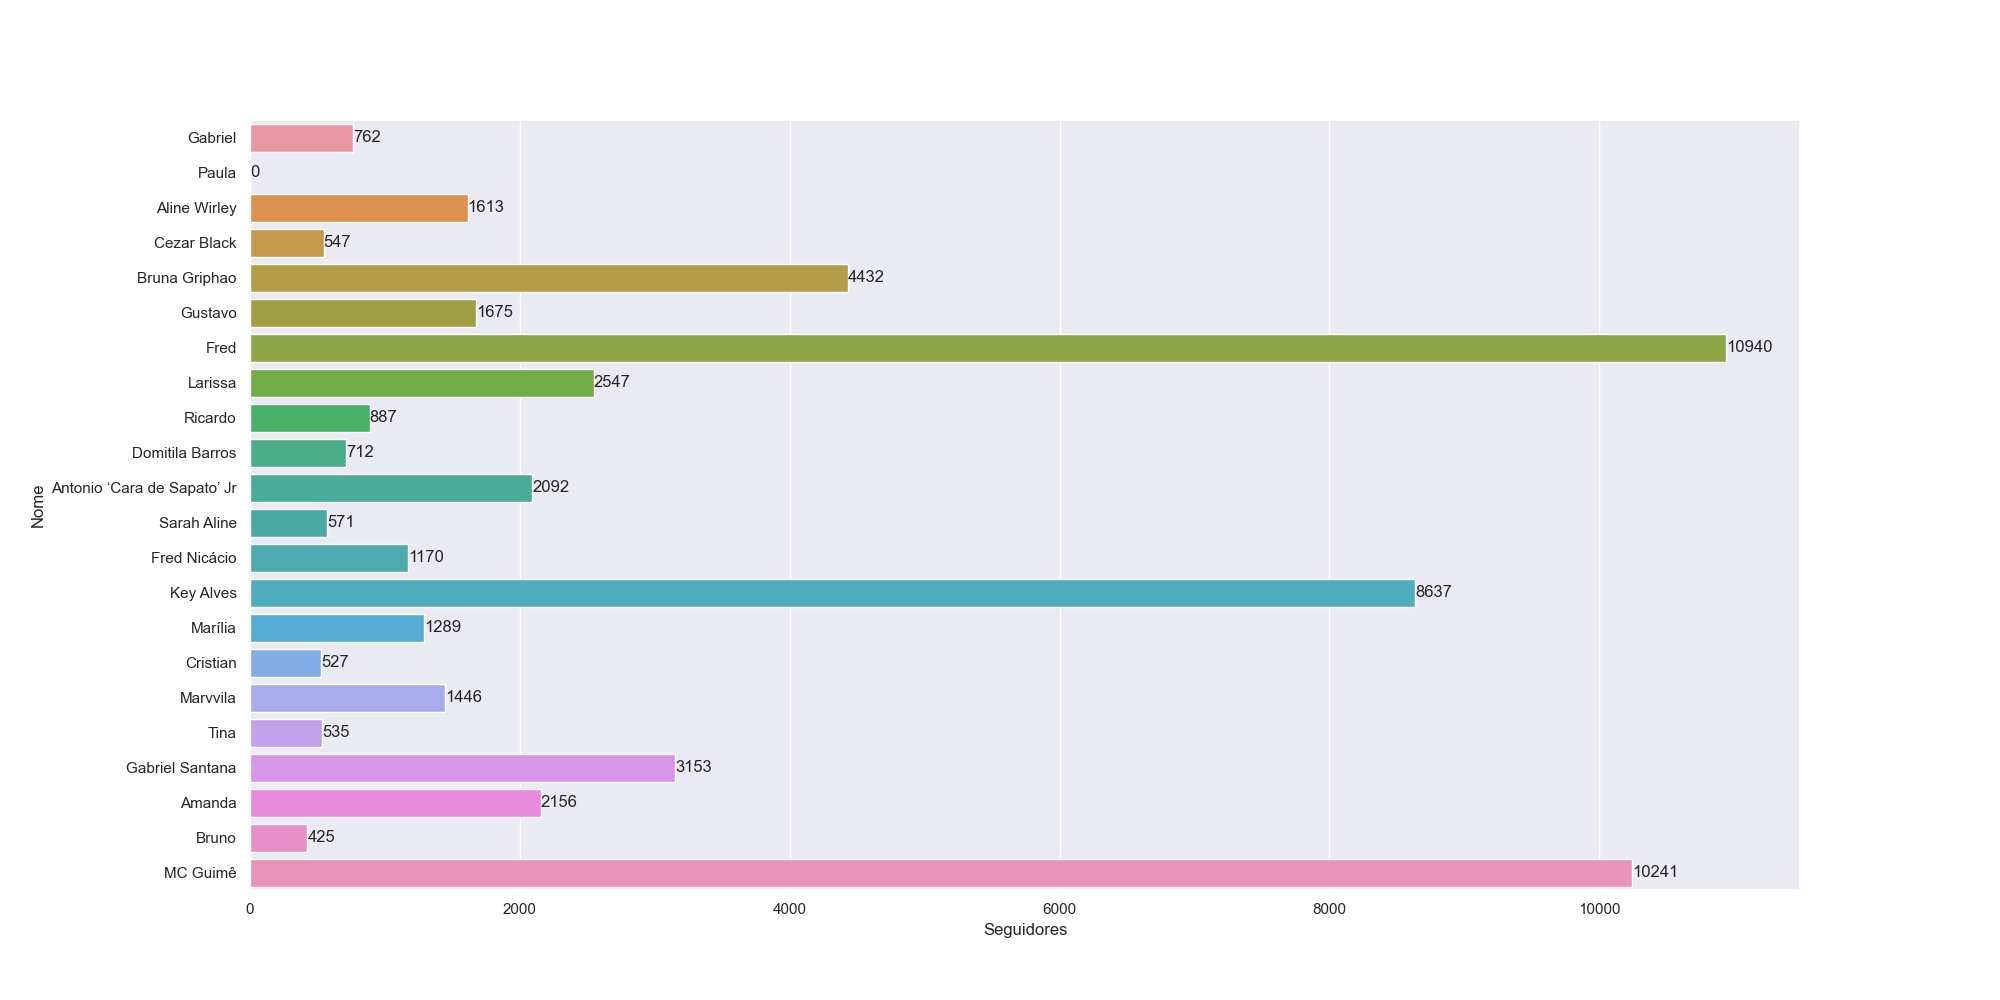
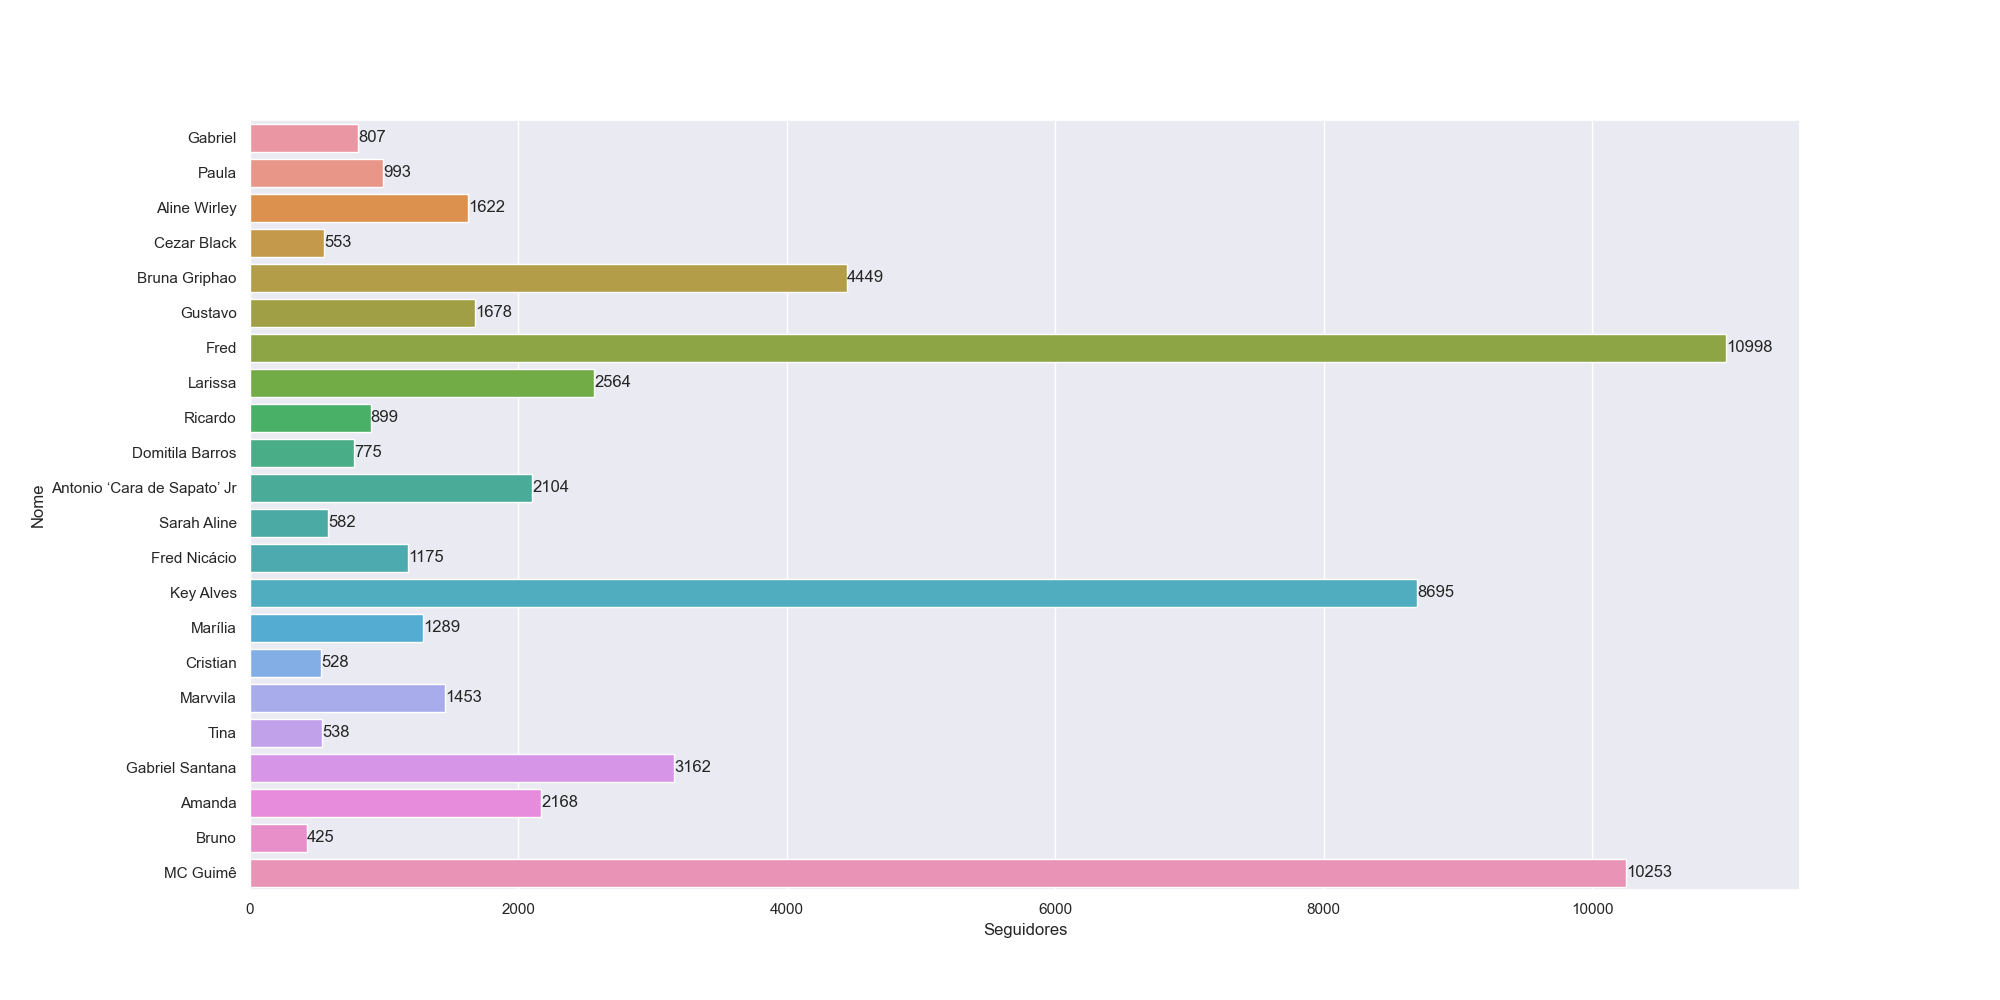
Update database

diff --git a/config/ConfigIntagram.py b/config/ConfigIntagram.py
@@ -25,7 +25,7 @@ class ConfigInstagram:
                 id=2,
                 name='Paula',
                 instagram_username='_paulafreitasr_',
-                followers=profile.from_username(bot.context, '_paulafreitasr_').followers,
+                followers=profile.from_username(bot.context, 'paulafreitas').followers,
                 url_image='https://s2.glbimg.com/nVOp1nrNMAlzW57bfHFdon5L1qg=/i.s3.glbimg.com/v1'
                           '/AUTH_e84042ef78cb4708aeebdf1c68c6cbd6/internal_photos/bs/2023/s/r/AstvO8T0OvZCRN7XE7cA'
                           '/paula-foto-330-270-bbb23.png'

diff --git a/model/StatusBrothers.py b/model/StatusBrothers.py
@@ -5,7 +5,7 @@ class StatusBrothers:
         self.__angel = 0
         self.__monster = []
         self.__wall = []
-        self.__in_game = [3, 4, 5, 7, 9, 10, 12, 17, 19, 20]
+        self.__in_game = [3, 4, 5, 9, 10, 12, 17, 19, 20]
 
     @property
     def Leader(self):
